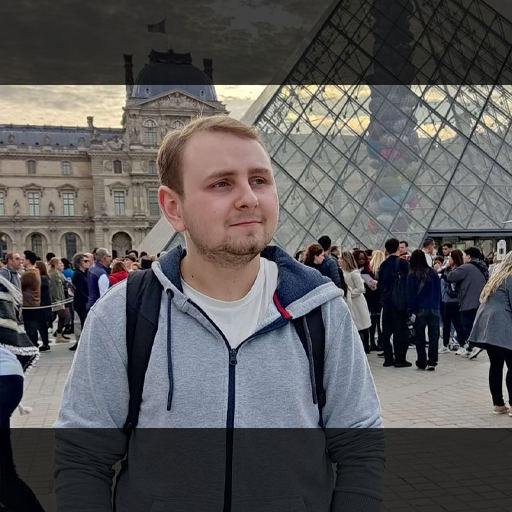
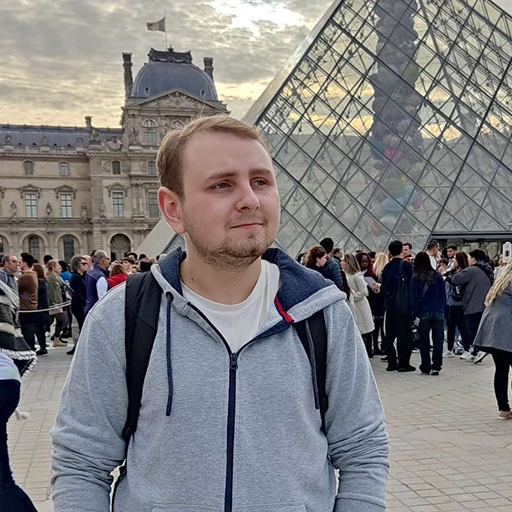
Fix Team Images (#3)
* Refactored Code, Optimized Imports, Fixed Images

* Add ContactSection

* store current state

* added contact form

* updated texts

* fix image border

* fixed typings

fuck typescript

diff --git a/src/components/sections/ContactSection.vue b/src/components/sections/ContactSection.vue
@@ -1,0 +1,122 @@
+<template>
+  <div class="isolate bg-white px-6 py-24 sm:py-32 lg:px-8">
+    <div class="absolute inset-x-0 top-[-10rem] -z-10 transform-gpu overflow-hidden blur-3xl sm:top-[-20rem]"
+         aria-hidden="true">
+      <div
+        class="relative left-1/2 -z-10 aspect-[1155/678] w-[36.125rem] max-w-none -translate-x-1/2 rotate-[30deg] bg-gradient-to-tr from-[#ff80b5] to-[#9089fc] opacity-30 sm:left-[calc(50%-40rem)] sm:w-[72.1875rem]"
+        style="clip-path: polygon(74.1% 44.1%, 100% 61.6%, 97.5% 26.9%, 85.5% 0.1%, 80.7% 2%, 72.5% 32.5%, 60.2% 62.4%, 52.4% 68.1%, 47.5% 58.3%, 45.2% 34.5%, 27.5% 76.7%, 0.1% 64.9%, 17.9% 100%, 27.6% 76.8%, 76.1% 97.7%, 74.1% 44.1%)"/>
+    </div>
+    <div class="mx-auto max-w-2xl text-center">
+      <h2 class="text-3xl font-bold tracking-tight text-gray-900 sm:text-4xl">
+        <slot name="title">
+          Contact sales
+        </slot>
+      </h2>
+      <p class="mt-2 text-lg leading-8 text-gray-600">
+        <slot name="description">
+          Aute magna irure deserunt veniam aliqua magna enim voluptate.
+        </slot>
+      </p>
+    </div>
+    <form @submit="handleSubmit" class="mx-auto mt-16 max-w-xl sm:mt-20">
+      <div class="grid grid-cols-1 gap-x-8 gap-y-6 sm:grid-cols-2">
+        <div>
+          <label for="first-name" class="block text-sm font-semibold leading-6 text-gray-900">First name</label>
+          <div class="mt-2.5">
+            <input type="text" name="first-name" id="first-name" autocomplete="given-name" required
+                   class="block w-full rounded-md border-0 px-3.5 py-2 text-gray-900 shadow-sm ring-1 ring-inset ring-gray-300 placeholder:text-gray-400 focus:ring-2 focus:ring-inset focus:ring-indigo-600 sm:text-sm sm:leading-6"/>
+          </div>
+        </div>
+        <div>
+          <label for="last-name" class="block text-sm font-semibold leading-6 text-gray-900">Last name</label>
+          <div class="mt-2.5">
+            <input type="text" name="last-name" id="last-name" autocomplete="family-name" required
+                   class="block w-full rounded-md border-0 px-3.5 py-2 text-gray-900 shadow-sm ring-1 ring-inset ring-gray-300 placeholder:text-gray-400 focus:ring-2 focus:ring-inset focus:ring-indigo-600 sm:text-sm sm:leading-6"/>
+          </div>
+        </div>
+        <div v-if="addCompanyField" class="sm:col-span-2">
+          <label for="company" class="block text-sm font-semibold leading-6 text-gray-900">
+            Company {{ companyOptional ? "(Optional)" : "" }}
+          </label>
+          <div class="mt-2.5">
+            <input type="text" name="company" id="company" autocomplete="organization" :required="!companyOptional"
+                   class="block w-full rounded-md border-0 px-3.5 py-2 text-gray-900 shadow-sm ring-1 ring-inset ring-gray-300 placeholder:text-gray-400 focus:ring-2 focus:ring-inset focus:ring-indigo-600 sm:text-sm sm:leading-6"/>
+          </div>
+        </div>
+        <div v-if="addEmailField" class="sm:col-span-2">
+          <label for="email" class="block text-sm font-semibold leading-6 text-gray-900">Email</label>
+          <div class="mt-2.5">
+            <input type="email" name="email" id="email" autocomplete="email" required
+                   class="block w-full rounded-md border-0 px-3.5 py-2 text-gray-900 shadow-sm ring-1 ring-inset ring-gray-300 placeholder:text-gray-400 focus:ring-2 focus:ring-inset focus:ring-indigo-600 sm:text-sm sm:leading-6"/>
+          </div>
+        </div>
+        <div v-if="addSubjectField" class="sm:col-span-2">
+          <label for="subject" class="block text-sm font-semibold leading-6 text-gray-900">
+            Subject
+          </label>
+          <div class="mt-2.5">
+            <input type="text" name="subject" id="subject" autocomplete="organization" :required="!companyOptional"
+                   class="block w-full rounded-md border-0 px-3.5 py-2 text-gray-900 shadow-sm ring-1 ring-inset ring-gray-300 placeholder:text-gray-400 focus:ring-2 focus:ring-inset focus:ring-indigo-600 sm:text-sm sm:leading-6"/>
+          </div>
+        </div>
+        <div class="sm:col-span-2">
+          <label for="message" class="block text-sm font-semibold leading-6 text-gray-900">Message</label>
+          <div class="mt-2.5">
+            <textarea name="message" id="message" rows="4" required
+                      class="block w-full rounded-md border-0 px-3.5 py-2 text-gray-900 shadow-sm ring-1 ring-inset ring-gray-300 placeholder:text-gray-400 focus:ring-2 focus:ring-inset focus:ring-indigo-600 sm:text-sm sm:leading-6"/>
+          </div>
+        </div>
+        <SwitchGroup v-if="privacyPolicy !== undefined" as="div" class="flex gap-x-4 sm:col-span-2">
+          <div class="flex h-6 items-center">
+            <Switch v-model="agreed"
+                    :class="[agreed ? 'bg-indigo-600' : 'bg-gray-200', 'flex w-8 flex-none cursor-pointer rounded-full p-px ring-1 ring-inset ring-gray-900/5 transition-colors duration-200 ease-in-out focus-visible:outline focus-visible:outline-2 focus-visible:outline-offset-2 focus-visible:outline-indigo-600']">
+              <span class="sr-only">Agree to policies</span>
+              <span aria-hidden="true"
+                    :class="[agreed ? 'translate-x-3.5' : 'translate-x-0', 'h-4 w-4 transform rounded-full bg-white shadow-sm ring-1 ring-gray-900/5 transition duration-200 ease-in-out']"/>
+            </Switch>
+          </div>
+          <SwitchLabel class="text-sm leading-6 text-gray-600" >
+            By selecting this, you agree to our
+            {{ ' ' }}
+            <RouterLink :to="privacyPolicy" class="font-semibold text-indigo-600">privacy&nbsp;policy</RouterLink>.
+          </SwitchLabel>
+        </SwitchGroup>
+      </div>
+      <div class="mt-10">
+        <button type="submit" :disabled="!agreed"
+                class="block w-full rounded-md bg-indigo-600 px-3.5 py-2.5 text-center text-sm font-semibold text-white shadow-sm hover:bg-indigo-500 focus-visible:outline focus-visible:outline-2 focus-visible:outline-offset-2 focus-visible:outline-indigo-600">
+          <slot name="button">
+            Let's talk
+          </slot>
+        </button>
+      </div>
+    </form>
+  </div>
+</template>
+
+<script setup lang="ts">
+import {Switch, SwitchGroup, SwitchLabel} from '@headlessui/vue'
+import {ref} from 'vue';
+
+const agreed = ref(false)
+
+const emit = defineEmits(['submit']);
+const props = defineProps({
+  addCompanyField: {type: Boolean, default: false, required: false},
+  addSubjectField: {type: Boolean, default: false, required: false},
+  companyOptional: {type: Boolean, default: false, required: false},
+  addEmailField: {type: Boolean, default: false, required: false},
+  privacyPolicy: {type: String, default: undefined, required: false}
+})
+
+function handleSubmit(submit: FormDataEvent) {
+  submit.preventDefault();
+
+  const formData = new FormData(submit.target as HTMLFormElement);
+  emit('submit', formData);
+}
+</script>
+
+<style scoped>
+
+</style>

diff --git a/src/components/dialogs/SuccessDialog.vue b/src/components/dialogs/SuccessDialog.vue
@@ -1,0 +1,64 @@
+<template>
+  <TransitionRoot as="template" :show="open">
+    <Dialog class="relative z-10" @close="emit('close')">
+      <TransitionChild as="template" enter="ease-out duration-300" enter-from="opacity-0" enter-to="opacity-100" leave="ease-in duration-200" leave-from="opacity-100" leave-to="opacity-0">
+        <div class="fixed inset-0 bg-gray-500 bg-opacity-75 transition-opacity" />
+      </TransitionChild>
+
+      <div class="fixed inset-0 z-10 w-screen overflow-y-auto">
+        <div class="flex min-h-full items-end justify-center p-4 text-center sm:items-center sm:p-0">
+          <TransitionChild as="template" enter="ease-out duration-300" enter-from="opacity-0 translate-y-4 sm:translate-y-0 sm:scale-95" enter-to="opacity-100 translate-y-0 sm:scale-100" leave="ease-in duration-200" leave-from="opacity-100 translate-y-0 sm:scale-100" leave-to="opacity-0 translate-y-4 sm:translate-y-0 sm:scale-95">
+            <DialogPanel class="relative transform overflow-hidden rounded-lg bg-white text-left shadow-xl transition-all sm:my-8 sm:w-full sm:max-w-lg">
+              <div class="bg-white px-4 pb-4 pt-5 sm:p-6 sm:pb-4">
+                <div class="sm:flex sm:items-start">
+                  <div class="mx-auto flex h-12 w-12 flex-shrink-0 items-center justify-center rounded-full bg-green-100 sm:mx-0 sm:h-10 sm:w-10">
+                    <FontAwesomeIcon :icon="faCheck" class="h-6 w-6 text-green-600" aria-hidden="true" />
+                  </div>
+                  <div class="mt-3 text-center sm:ml-4 sm:mt-0 sm:text-left">
+                    <DialogTitle as="h3" class="text-base font-semibold leading-6 text-gray-900">
+                      <slot name="title">
+                        Thank You
+                      </slot>
+                    </DialogTitle>
+                    <div class="mt-2">
+                      <p class="text-sm text-gray-500">
+                        <slot name="description">
+                          We have received your contact request and will get back to you as soon as possible.
+                        </slot>
+                      </p>
+                    </div>
+                  </div>
+                </div>
+              </div>
+              <div class="bg-gray-50 px-4 py-3 sm:flex sm:flex-row-reverse sm:px-6">
+                <button type="button" class="inline-flex w-full justify-center rounded-md bg-indigo-600 px-3 py-2 text-sm font-semibold text-white shadow-sm hover:bg-indigo-500 sm:ml-3 sm:w-auto" @click="emit('click')" ref="cancelButtonRef">
+                  <slot name="button">
+                    Go back
+                  </slot>
+                </button>
+              </div>
+            </DialogPanel>
+          </TransitionChild>
+        </div>
+      </div>
+    </Dialog>
+  </TransitionRoot>
+</template>
+
+<script setup lang="ts">
+import { ref } from 'vue';
+import { Dialog, DialogPanel, DialogTitle, TransitionChild, TransitionRoot } from '@headlessui/vue';
+import {FontAwesomeIcon} from "@fortawesome/vue-fontawesome";
+import {faCheck, faCheckCircle, faExclamationTriangle} from "@fortawesome/free-solid-svg-icons";
+
+const emit = defineEmits(['click', 'close']);
+
+const props = defineProps({
+  open: { type: Boolean, required: true }
+})
+
+</script>
+
+<style scoped>
+
+</style>

diff --git a/src/views/HomeView.vue b/src/views/HomeView.vue
@@ -15,9 +15,40 @@ import {
 } from "@fortawesome/free-solid-svg-icons";
 import ImageLeftFeatureSection from "@/components/sections/ImageLeftFeatureSection.vue";
 import Centered2x2GridSection from "@/components/sections/Centered2x2GridSection.vue";
-
 import ITConsultingImage from '@/assets/images/ITConsulting.png';
 import ManagementConsultingImage from '@/assets/images/ManagementConsulting.png';
+import ContactSection from "@/components/sections/ContactSection.vue";
+import SuccessDialog from "@/components/dialogs/SuccessDialog.vue";
+import {ref} from "vue";
+import HomeView from "@/views/HomeView.vue";
+
+// handle contact form events
+const contactFormShown = ref(false);
+function handleContactFormSubmit(formData: FormData) {
+  contactFormShown.value = true;
+
+  const body = {
+    firstname: formData.get("first-name"),
+    lastname: formData.get("last-name"),
+    email: formData.get("email"),
+    company: formData.get("company"),
+    subject: formData.get("subject"),
+    message: formData.get("message")
+  };
+
+  fetch("https://api.olg-group.com/contact/submit", {
+    method: 'POST',
+    headers: {
+      'Accept': 'application/json',
+      'Content-Type': 'application/json'
+    },
+    body: JSON.stringify(body)
+  });
+}
+
+// why this alias, you may ask.
+// well because of typescript. and typescript sometimes sucks...
+const reloadPage = () => window.location.reload();
 </script>
 
 <template>
@@ -84,6 +115,34 @@ import ManagementConsultingImage from '@/assets/images/ManagementConsulting.png'
         & investment banking or marketing is fully available to you.
       </template>
     </ImageLeftFeatureSection>
+
+    <!-- Contact Form -->
+    <SuccessDialog
+      :open="contactFormShown"
+      @click="reloadPage"
+    >
+      <template #title>Thank You</template>
+      <template #description>
+        We have received your contact request and will get back to you as soon as possible.
+      </template>
+      <template #button>Go back</template>
+    </SuccessDialog>
+    <ContactSection
+      @submit="handleContactFormSubmit"
+      privacy-policy="/legal/privacy-policy"
+      add-email-field add-subject-field
+      add-company-field company-optional
+    >
+      <template #title>Interested? Contact Us!</template>
+      <template #description>
+        Are you ready for the next step in your IT and business journey?
+        <br/>
+        Please fill out the form below, and one of our experts will get back to you as soon as possible.
+      </template>
+      <template #button>
+        Lets talk
+      </template>
+    </ContactSection>
   </main>
 </template>
 
